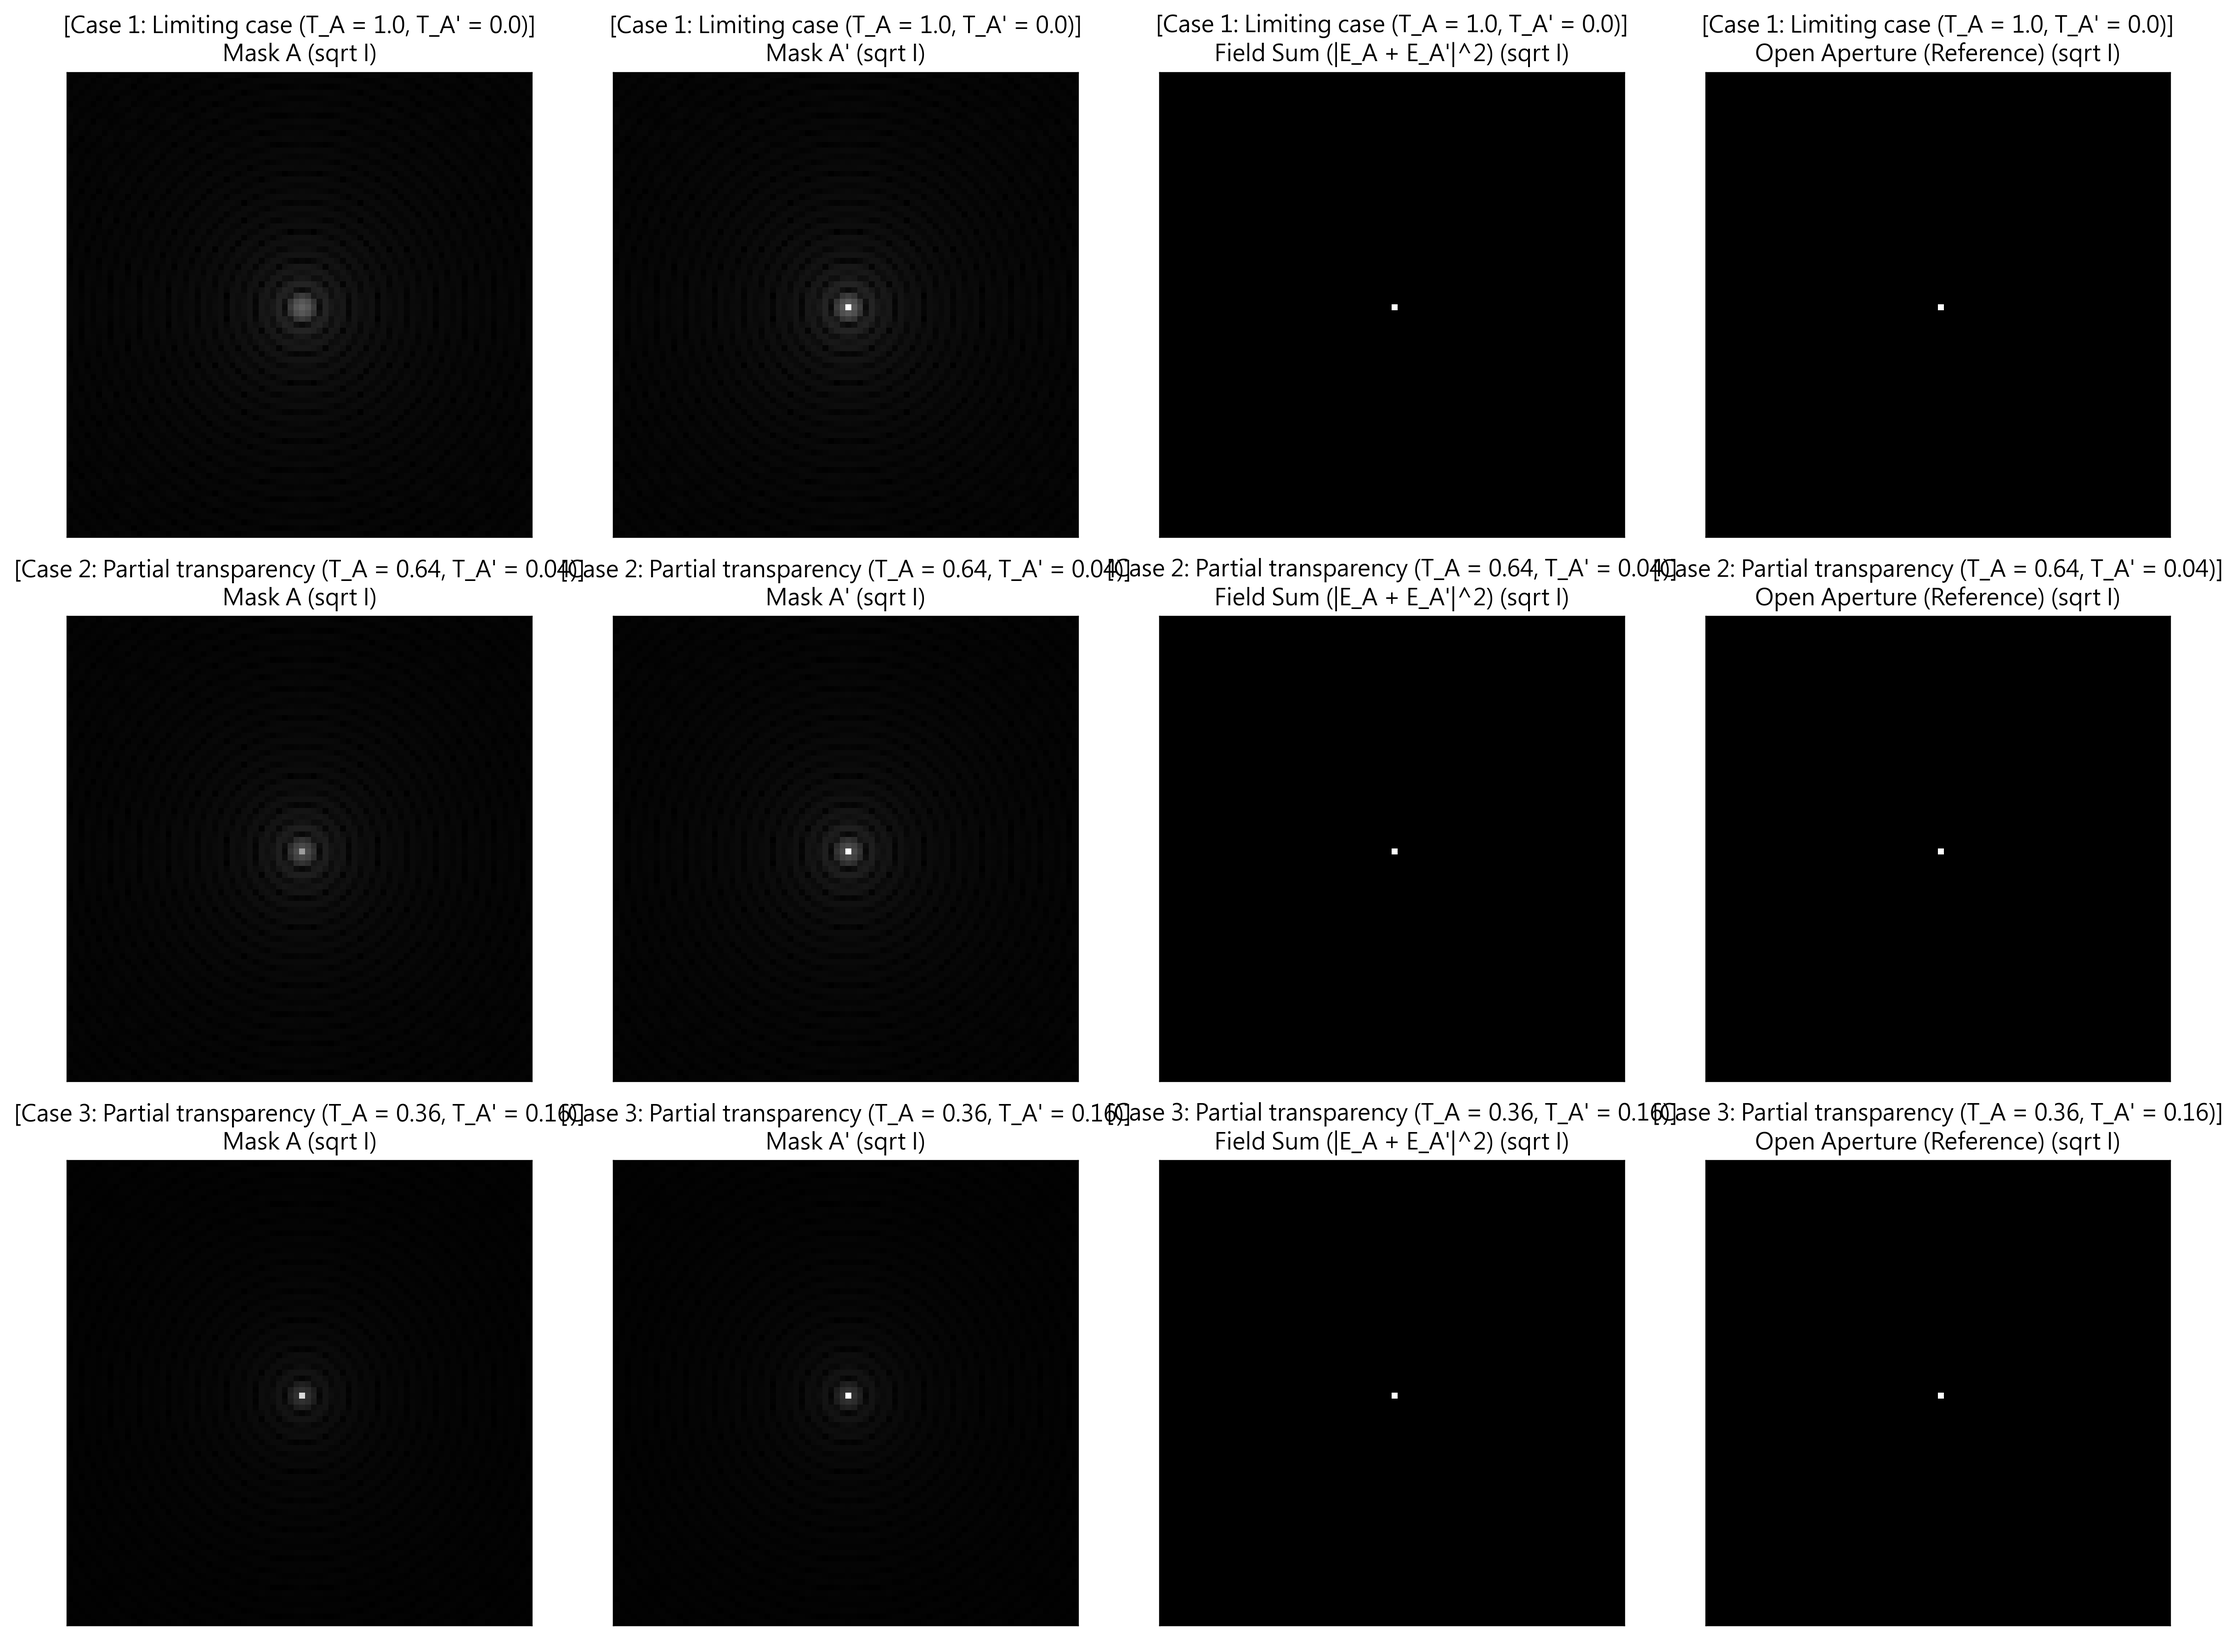
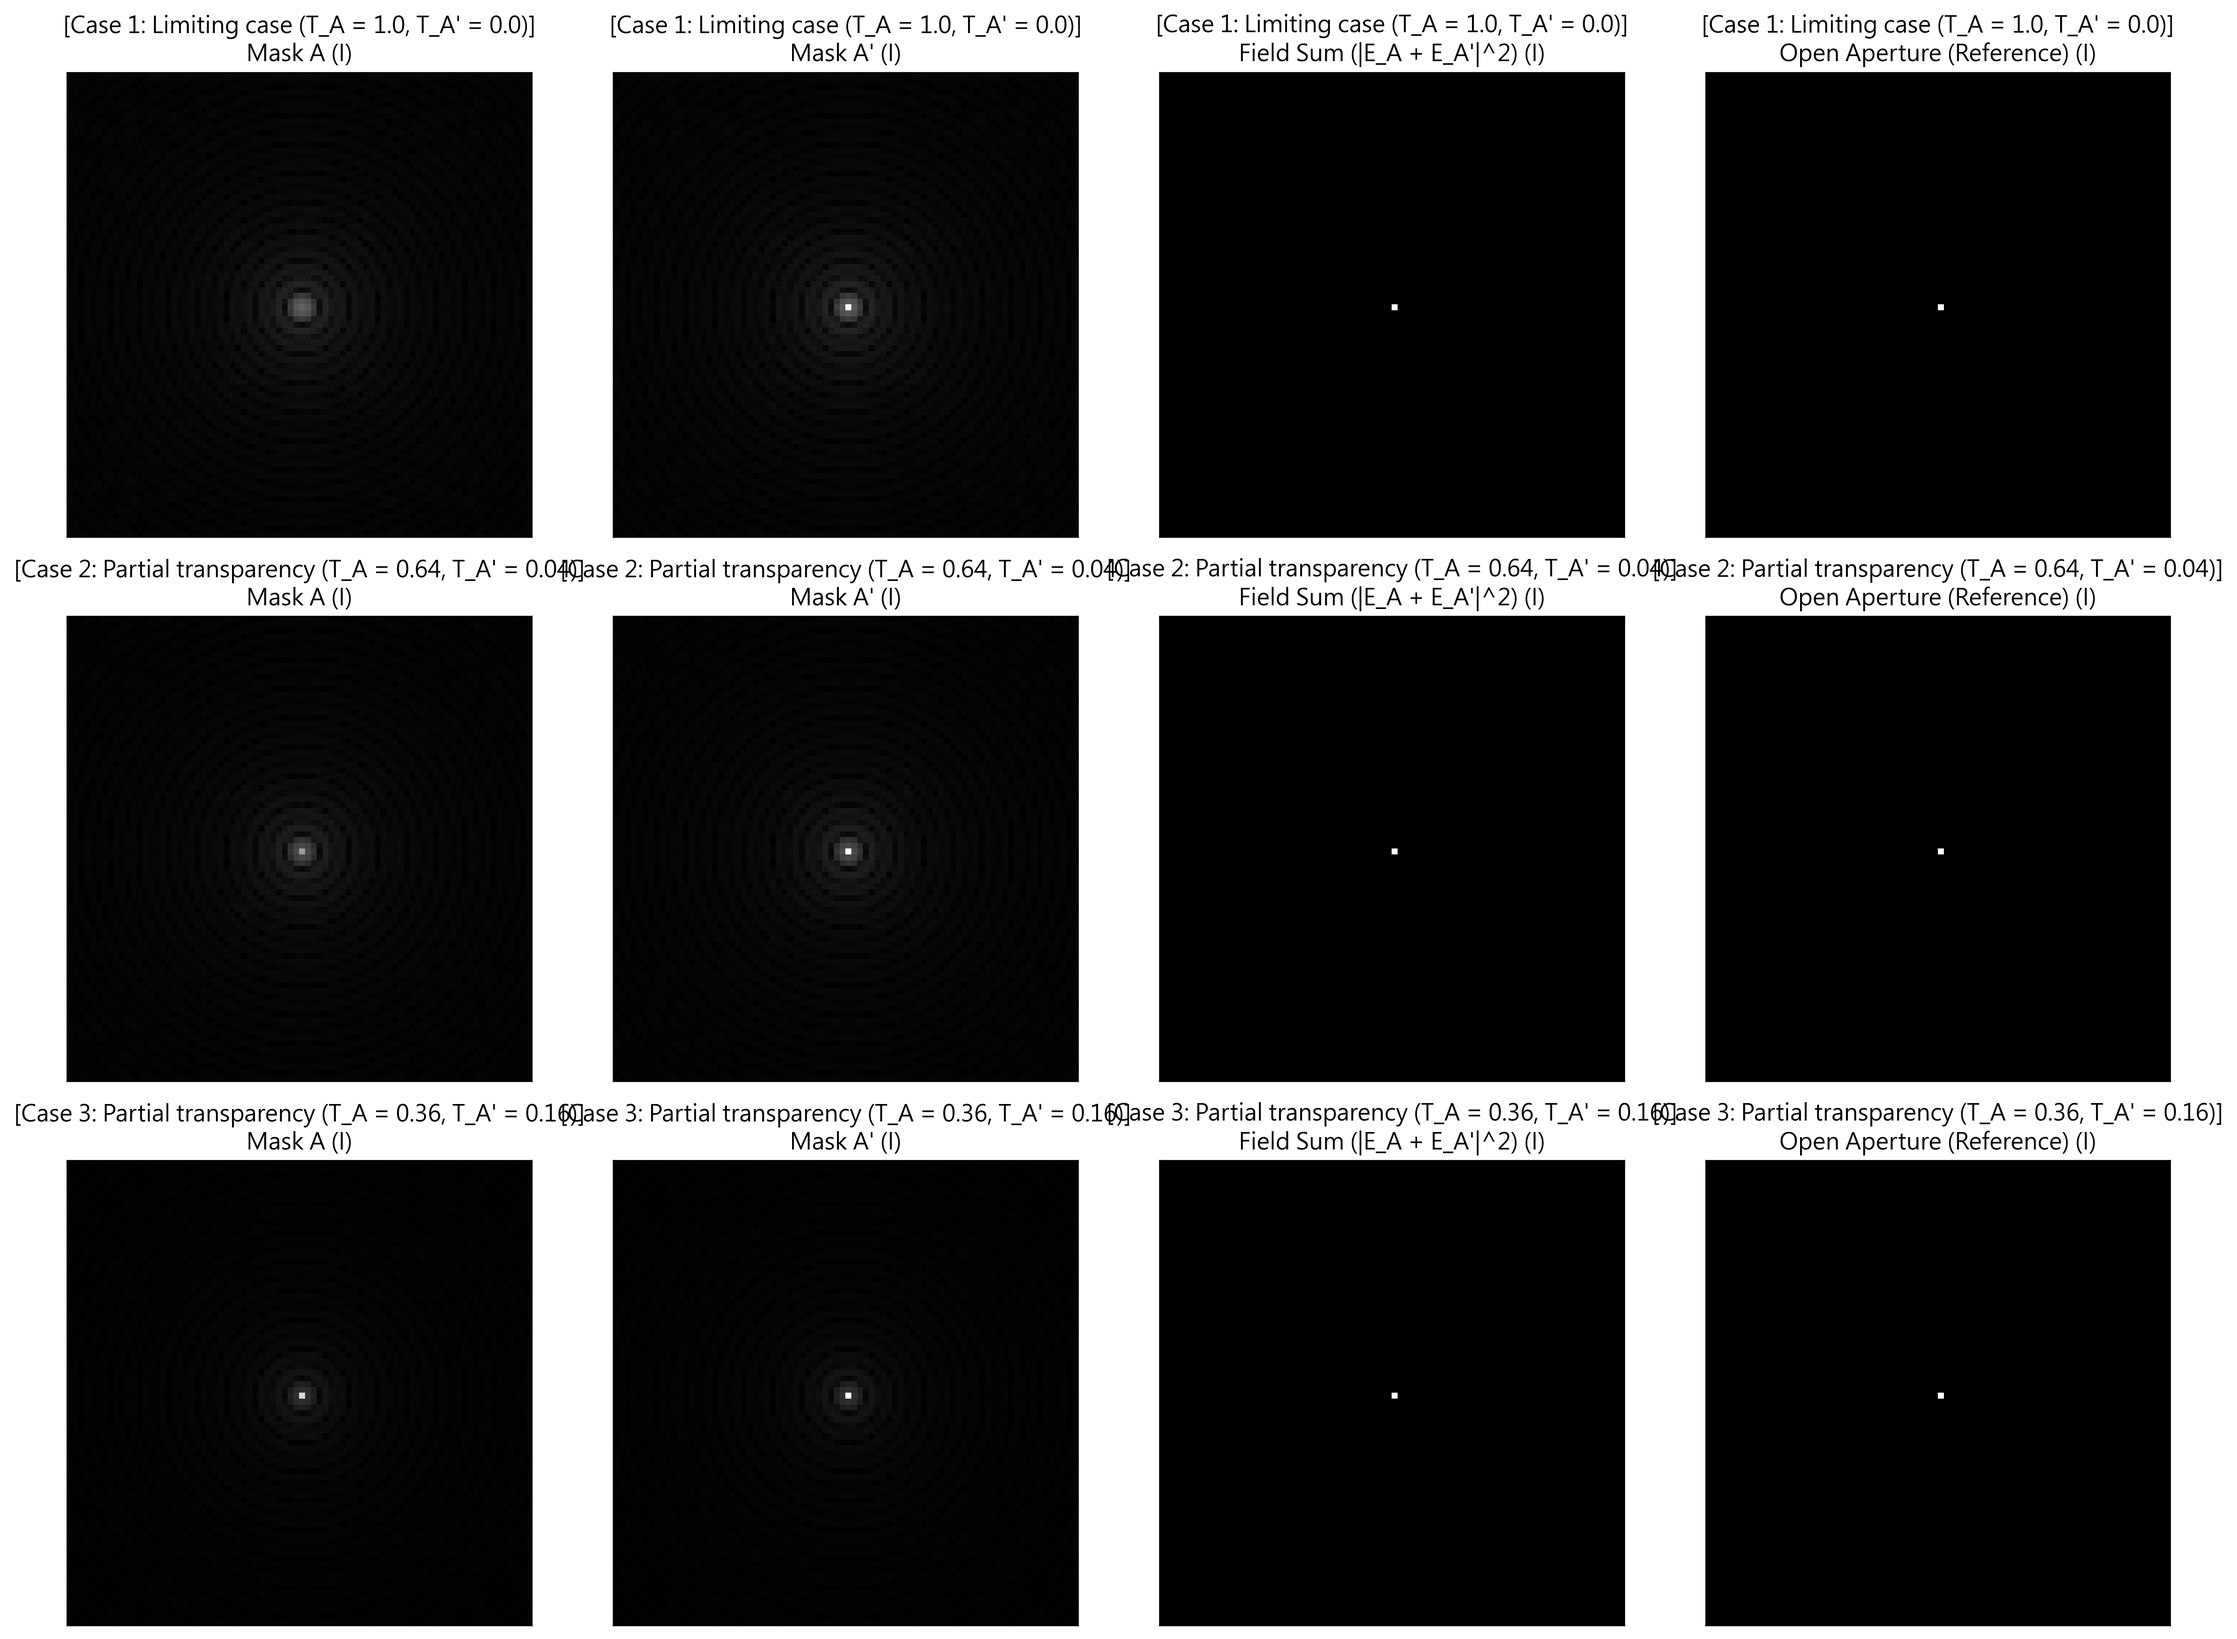
fix name err

diff --git a/3 partial transparency.py b/3 partial transparency.py
@@ -118,19 +118,19 @@ for idx, (case_name, T_A, T_Ap) in enumerate(cases):
     
     # Column 0: Mask A
     plot_intensity(axes[idx, 0], I_A_c,
-                   f"[{case_name}]\nMask A (sqrt I)")
+                   f"[{case_name}]\nMask A (I)")
     
     # Column 1: Mask A'
     plot_intensity(axes[idx, 1], I_A_comp_c,
-                   f"[{case_name}]\nMask A' (sqrt I)")
+                   f"[{case_name}]\nMask A' (I)")
     
     # Column 2: Field Sum (A + A')
     plot_intensity(axes[idx, 2], I_sum_c,
-                   f"[{case_name}]\nField Sum (|E_A + E_A'|^2) (sqrt I)")
+                   f"[{case_name}]\nField Sum (|E_A + E_A'|^2) (I)")
     
     # Column 3: Open Aperture (所有 case 相同，用於比較 Babinet's principle)
     plot_intensity(axes[idx, 3], I_open_c,
-                   f"[{case_name}]\nOpen Aperture (Reference) (sqrt I)")
+                   f"[{case_name}]\nOpen Aperture (Reference) (I)")
 
     print(case_name, "simulated with partial transparency.")
     # ========== Babinet check ==========
